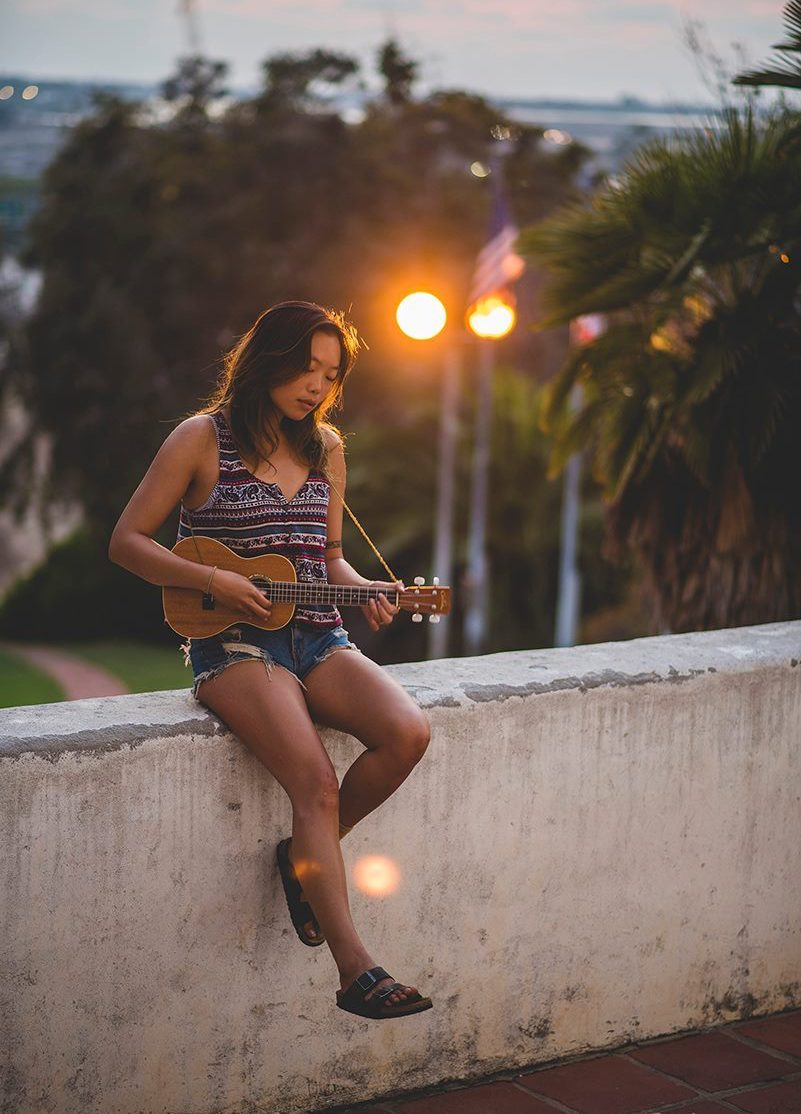
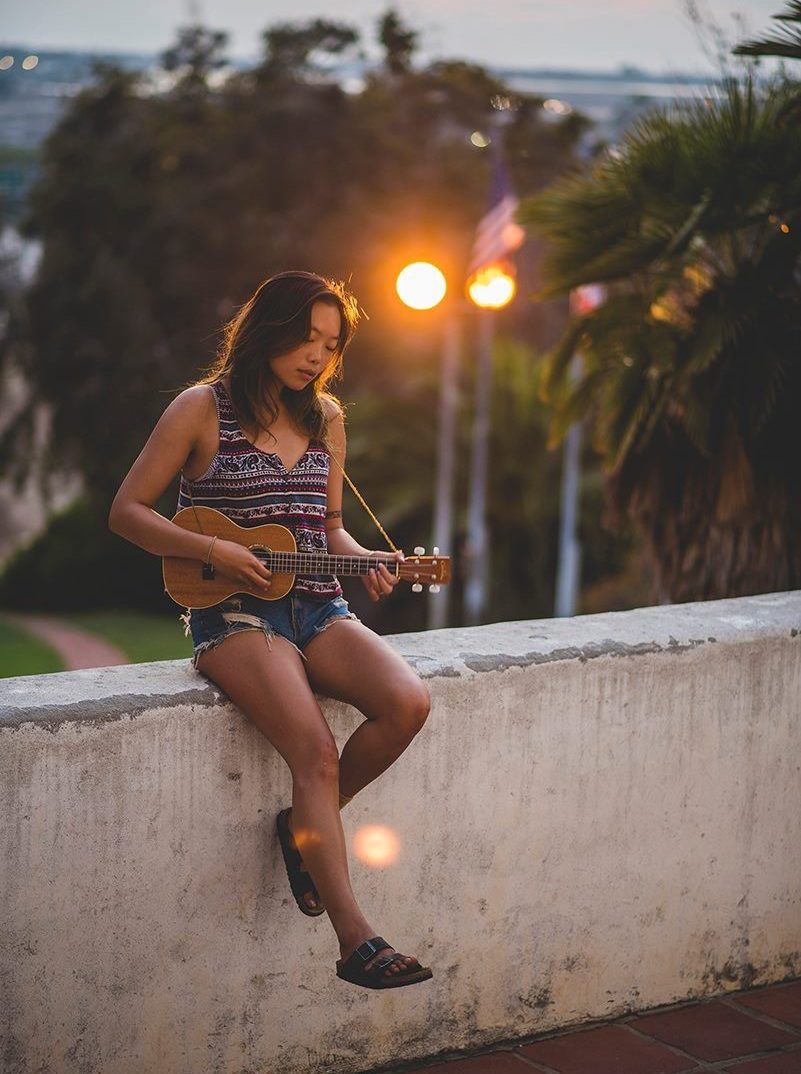
change about me section, shift sections around

diff --git a/src/aboutme.jsx b/src/aboutme.jsx
@@ -6,54 +6,42 @@ class AboutMe extends Component {
   componentDidMount() {
     sr.reveal(this.refs.main, {reset: true, useDelay: 'onload'});
   }
+
   render() {
-  	const styles =
-  	  {
-        'height': '200px',
-        'width': '100%',
-        'display':'flex',
-        'alignItems': 'center',
-        'justifyContent': 'center',
-        'fontSize': '2.9em',
-  	  }
-
-    const padding =
-      {
-        'marginBottom': '10px',
-      }
-
   	return (
-      <section className='AboutMe' style={padding}>
-        <div ref='main'>
-          <div style={styles}>About Me</div>
-          <Content />
-        </div>
+      <section className='AboutMe'>
+        <Grid>
+          <Header />
+          <Row>
+            <Col md={4} mdOffset={0} smOffset={0} sm={4}><Photo /></Col>
+            <Col md={8} mdOffset={0} smOffset={0} sm={4}><Row><Description/></ Row></Col>
+          </Row>
+        </Grid>
       </section>
   	);
   }
 }
 
-class Content extends Component {
+class Header extends Component {
   render() {
     return (
-      <Grid>
-        <Row>
-          <Col md={6} mdOffset={0} smOffset={0} sm={4}><Photo /></Col>
-          <Col md={6} mdOffset={0} smOffset={0} sm={10}><Description /></Col>
-        </Row>
-      </Grid>
+      <div className='sectionHeader'>About Me</div>
     )
   }
 }
 
 class Description extends Component {
   render() {
+    const a = {
+      'paddingBottom': '30px'
+    }
+
     return (
-      <div>
-        <h1 className='linedHeader'>Shirley Xiaolin Xu, M.IA.</h1>
+      <div style={a}>
         <ul>
           <li> Fluent in English, Chinese (Mandarin), Spanish, Ruby; proficient in Python, SQL, French; familiar with Go, C++, ReactJS, HTML/CSS, Cantonese, & German.</li>
-          <li> <a href="https://www.github.com/xiaolin-ninja">Back-end engineer</a> at Heroku/Salesforce. <a href="https://www.youtube.com/watch?v=N2ZdcOT1kwo">MS Cybersecurity student</a> at NYU Tandon.<br/>
+          <li> <a href="https://www.github.com/xiaolin-ninja">Back-end engineer</a> at Heroku/Salesforce. <br/><a href="https://www.youtube.com/watch?v=N2ZdcOT1kwo">MS Cybersecurity student</a> at NYU Tandon.<br/>
+            <p/>
             Past identities:
             <ul>
             <li> <a href="https://www.linkedin.com/in/shxxu/" target="_blank" rel="noopener noreferrer">
@@ -63,7 +51,7 @@ class Description extends Component {
             <li> Model Agent, Airbnb Host, Pilates Instructor, & EFL Teacher <br/> </li>
             </ul>
           </li>
-          <br></br>
+          <br/>
           <p> I learn languages to connect with people all over the world. <span role="img" aria-label="emoji">🌸</span></p>
         </ul>
       </div>
@@ -74,10 +62,10 @@ class Description extends Component {
 class Photo extends Component {
   render() {
     return (
-        <div>
-        <img className='photo' src={'./assets/uke2.jpg'}
-             alt='' width="100%" height='100%'/>
-        </div>
+    <div className='Photo'>
+      <img className='photo' src={'./assets/uke2.jpg'}
+       alt=''/>
+    </div>
     )
   }
 }

diff --git a/src/style.css b/src/style.css
@@ -24,9 +24,18 @@ p {
   text-shadow:0 0 0 #f00, 0 0 1px transparent;
 }
 
+.sectionHeader {
+  height: 150px;
+  width: 100%;
+  display:flex;
+  align-items: center;
+  justify-content: center;
+  font-size: 2.4em;
+}
+
 .grayscale {
-      filter: grayscale(100%);
-      -webkit-filter: grayscale(100%);
+  filter: grayscale(100%);
+  -webkit-filter: grayscale(100%);
 }
 
 .header {
@@ -44,18 +53,20 @@ p {
 }
 
 .photo {
-  border-radius: 10%;
-  padding-bottom: 30px;
-  height: auto;
+  border-radius: 5%;
+  width: 93%;
+  height: 93%;
+  margin-bottom: 30px;
+   -webkit-box-shadow: 0 5px 10px #777;
+   -moz-box-shadow: 0 5px 10px #777;
+   box-shadow: 0 5px 10px #777;
 }
 
-/*.Experience {
-  background-image: url('/assets/projectsbg.jpg');
-  background-repeat: no-repeat;
-  background-position: center;
-  background-size: cover;
+.Photo {
+  display:flex;
+  align-items: center;
+  justify-content: center;
 }
-*/
 
 .Welcome {
   background-image: url('/assets/rockTurtle.jpg');
@@ -74,8 +85,9 @@ p {
   background-repeat: no-repeat;
   background-position: center;
   background-size: cover;
-  text-align: justify;
-  font-size: 99%;
+  text-align: left;
+  font-size: 80%;
+  margin-bottom: 10px;
 }
 
 .Education {
@@ -85,19 +97,22 @@ p {
   background-size: cover;
   color: #fff;
   position: center;
+  margin-bottom: 10px;
+  padding-bottom: 20px
 }
 
 .Skills {
-  background-image:
-    url('/assets/ocean.jpg');
+  background-image: url('/assets/ocean.jpg');
   background-repeat: no-repeat;
   background-position: center;
   background-size: cover;
   color: #fff;
   font-size: 75%;
-  text-align: justify;
+  text-align: left;
+  margin-bottom: 10px;
+  padding-top: 40px;
+  padding-bottom: 20px;
 }
-
 
 .Footer {
   background-color: #000914;

diff --git a/src/skills.jsx b/src/skills.jsx
@@ -8,21 +8,10 @@ class Skills extends Component {
   }
 
   render() {
-    const paddingB =
-      {
-        'marginBottom': '50px',
-      }
-
-    const paddingT =
-      {
-        'height': '60px',
-      }
-
     return (
       <section className='Skills'>
         <div ref='main'>
           <Grid>
-          <div style={paddingT} />
             <Row>
               <Description title='Well-Rounded'
               body="I code daily in Ruby & SQL at Salesforce (Heroku), and in C++ & Python at NYU. I created this portfolio with ReactJS & CSS, and analyzed data with STATA & R at UCSD. Away from the internet, I participate in speech competitions, volunteer in marine conservation (Rescue Diver), and ran a talent agency with a guy nicknamed 'Sexy Stalin'. I seamlessly transition between support & leadership, and easily adapt to new environments."/>
@@ -34,10 +23,6 @@ class Skills extends Component {
             </Row>
           </Grid>
           <Row>
-          <div style={paddingB}>
-          <p/>
-          <p/>
-          </div>
           </Row>
           </div>
       </section>
@@ -47,22 +32,19 @@ class Skills extends Component {
 
 class Description extends Component {
   render() {
-  	const styles =
+  	const header =
   	  {
   	  	'textAlign': 'center',
   	  }
 
     const body = {
-      'padding': '0.5em'
+      'padding': '0.5em',
+      'color': '#e6ffff'
     }
-
-    // const padding = {
-    //   'padding' : '50px'
-    // }
 
     return (
       <Col sm={4}>
-        <h2 style={styles} className='linedHeader'>{this.props.title}</h2>
+        <h2 style={header} className='linedHeader'>{this.props.title}</h2>
         <div className='background' style={body}>
           <p>{this.props.body}</p>
         </div>

diff --git a/src/education.jsx b/src/education.jsx
@@ -7,15 +7,9 @@ class Education extends Component {
     sr.reveal(this.refs.header, {reset:true, viewFactor: 0.4, useDelay: 'onload'})
   }
   render() {
-  	const styles =
-  	  {
-        'marginBottom': '10px',
-        'paddingBottom': '20px'
-  	  }
-
   	return (
-  	  <section className='Education' style={styles}>
-        <div className='header' ref='header' style={styles}>Education</div>
+  	  <section className='Education'>
+        <div className='sectionHeader' ref='header'>Education</div>
         <Grid fluid>
           <Row>
             <Col className='noPad' xs={12} sm={4}>

diff --git a/src/footer.jsx b/src/footer.jsx
@@ -45,7 +45,7 @@ class Icon extends Component {
         // eslint-disable-next-line
         (this.props.url)}
            alt='' className='icon clickable' src={this.props.icon} /></Col>
-           )
+    )
   }
 }
 

diff --git a/src/index.js b/src/index.js
@@ -15,8 +15,8 @@ ReactDOM.render(
     <ScrollArrow />
     <Welcome />
     <AboutMe />
-    <Education />
     <Skills />
+    <Education />
     <Footer />
   </div>,
 
